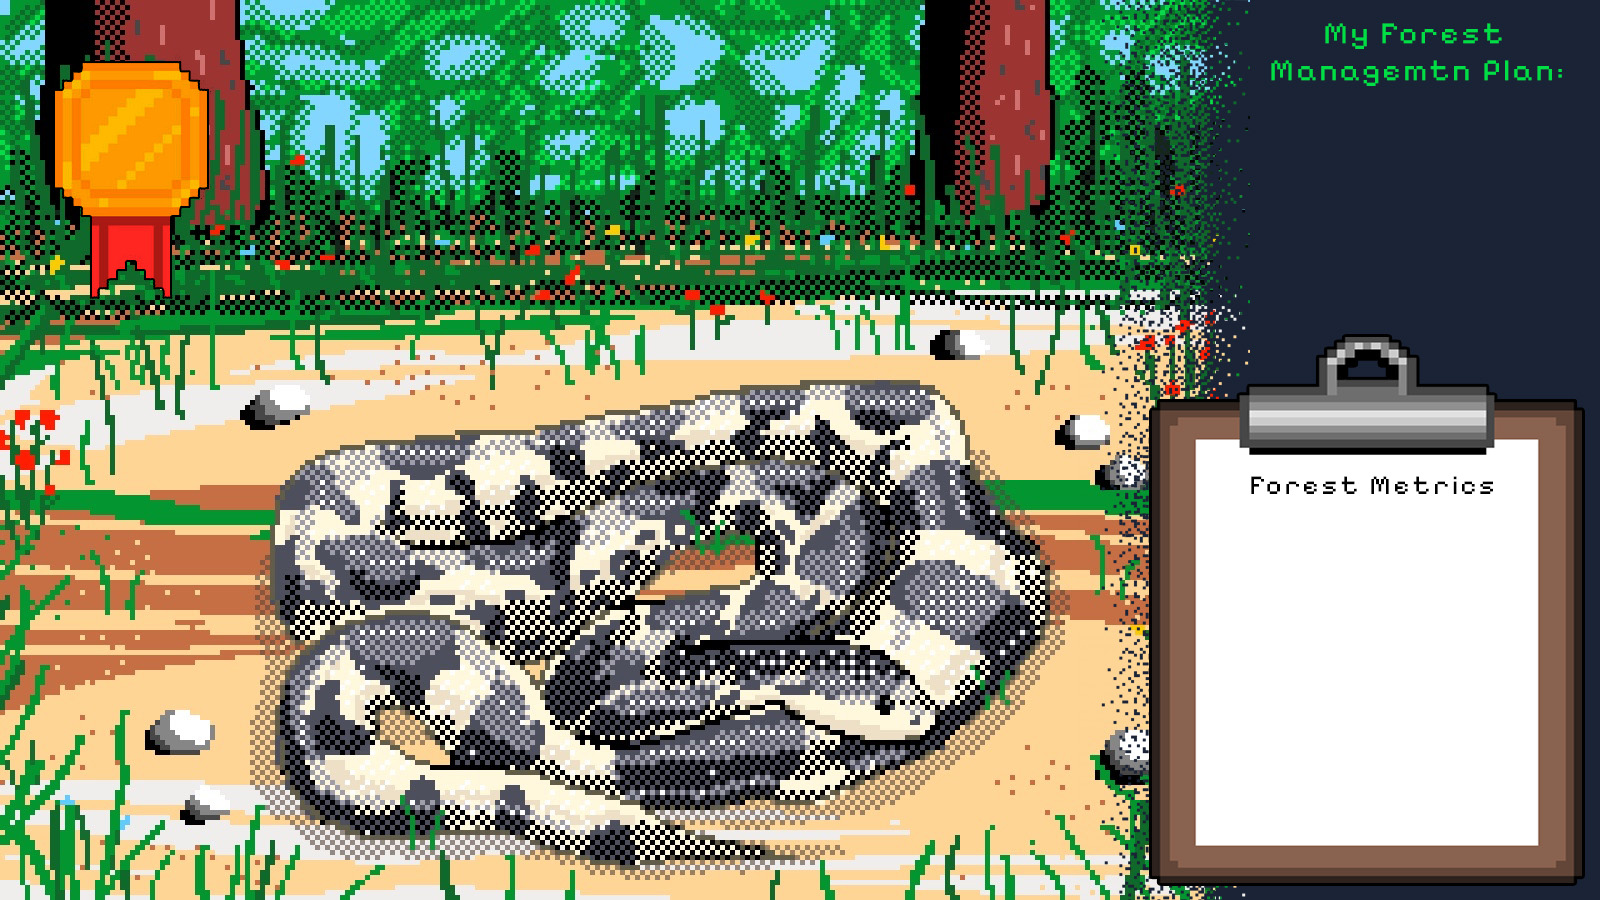
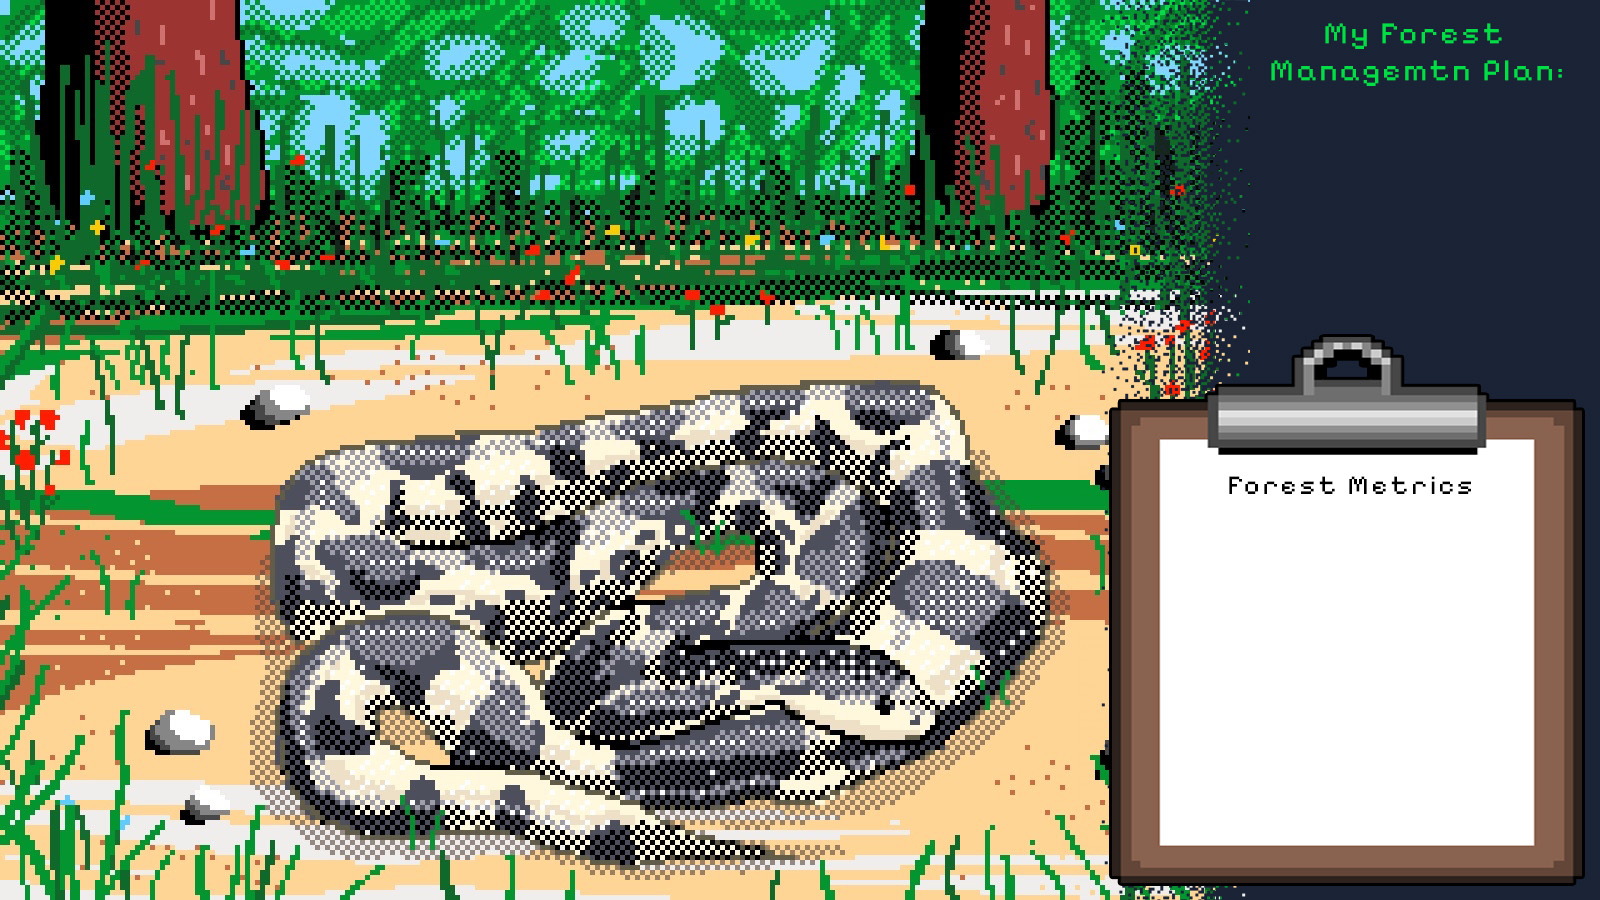
Updating canvas to labels
Converting canvas to label so text and buttons can be placed relatively rather than at absolute pixels

Changed region(s): [[0.6875, 0.3733, 0.9688, 0.9956], [0.0312, 0.0622, 0.1562, 0.3422], [0.9062, 0.4356, 0.9375, 0.4978]]

diff --git a/src/gui.py b/src/gui.py
@@ -48,7 +48,7 @@ def main():
         if risk == "Low":
             return "#228B22"  # Green
         elif risk == "Moderate":
-            return "#FFD700"  # Yellow
+            return "#FFA600"  # Yellow
         else:
             return "#B22222"  # Red
 
@@ -140,7 +140,7 @@ def main():
 
     # Create a frame for the buttons, centered near the bottom
     button_row = tk.Frame(intro_frame, bg="#854a2d")
-    button_row.place(relx=0.795, rely=0.825, anchor="center")  # Adjust rely for vertical position
+    button_row.place(relx=0.795, rely=0.825, anchor="center")  
 
     tk.Button(
         button_row,
@@ -361,69 +361,59 @@ def main():
         game_frame = tk.Frame(root, bg=BG_COLOR)
         game_frame.pack(fill="both", expand=True)
 
-        # Create a canvas that fills the window
-        canvas = tk.Canvas(game_frame, bg=BG_COLOR, highlightthickness=0)
-        canvas.pack(fill="both", expand=True)
+        # Load and display the background image in a label
+        bg_img = Image.open("assets/Evenagestand.png")
+        bg_img = bg_img.resize((1920, 1080))
+        bg_photo = ImageTk.PhotoImage(bg_img)
+        bg_label = tk.Label(game_frame, image=bg_photo)
+        bg_label.image = bg_photo
+        bg_label.place(relx=0, rely=0, relwidth=1, relheight=1)
 
-        # Load and display the background image, resizing it to fit the window
-        def update_bg_image(event=None):
-            try:
-                image = Image.open("assets/Evenagestand.png")
-                # Resize image to fit the canvas
-                w = canvas.winfo_width()
-                h = canvas.winfo_height()
-                if w < 10 or h < 10:
-                    return  # Avoid errors on initial small size
-                img = image.resize((w, h), Image.LANCZOS)
-                photo = ImageTk.PhotoImage(img)
-                canvas.photo = photo  # Prevent garbage collection
-                if hasattr(canvas, "bg_img_id"):
-                    canvas.itemconfig(canvas.bg_img_id, image=photo)
-                else:
-                    canvas.bg_img_id = canvas.create_image(0, 0, anchor="nw", image=photo)
-            except Exception:
-                pass
-
-        canvas.bind("<Configure>", update_bg_image)
-
-        # Overlay frame for stats and buttons
-        overlay = tk.Frame(canvas, bg="#FFFFFF", bd=0)  # White background
-        overlay_id = canvas.create_window(50, 185, anchor="nw", window=overlay)
-
-        # Status display area
-        status = tk.StringVar()
-        status.set("Welcome to Pitch Pine Trail! \nClick an action to begin.")
+        # --- Welcome Frame ---
+        welcome_frame = tk.Frame(game_frame, bg="#FFFFFF", bd=0)
+        welcome_frame.place(relx=0.88, rely=0.13, anchor="center")
 
         status_label = tk.Label(
-            overlay, textvariable=status, wraplength=400, justify="center",
-            padx=10, pady=10, bg="#FFFFFF", fg=FG_COLOR, font=FONT
+            welcome_frame,
+            text="Welcome to Pitch Pine Trail! \nClick an action to begin →",
+            wraplength=600, justify="center",
+            padx=10, pady=10, bg="#1b2336", fg="#05dd4c", font=FONT
         )
         status_label.pack()
 
+        # --- Metrics Frame ---
+        metrics_frame = tk.Frame(game_frame, bg="#FFFFFF", bd=0)
+        metrics_frame.place(relx=0.845, rely=0.73, anchor="center")
 
-        ba_label = tk.Label(overlay, bg="#FFFFFF", fg=FG_COLOR, font=FONT)
-        ba_label.pack()
-        qmd_label = tk.Label(overlay, bg="#FFFFFF", fg=FG_COLOR, font=FONT)
-        qmd_label.pack()
-        fire_risk_label = tk.Label(overlay, wraplength=400, justify="left", padx=10, pady=0, bg="#FFFFFF", font=FONT)
-        tpa_label = tk.Label(overlay, bg=BG_COLOR, fg=FG_COLOR, font=FONT)
-        tpa_label.pack()
+        # This label will be updated with game status
+        game_status = tk.StringVar()
+        game_status_message = tk.Message(
+            metrics_frame,
+            textvariable=game_status,
+            width=450,  # width in pixels, similar to wraplength
+            justify="center",
+            bg="#FFFFFF",
+            fg=FG_COLOR,
+            font=("Courier",13, "bold")
+        )
+        game_status_message.pack()
+
+        fire_risk_label = tk.Label(metrics_frame, wraplength=400, justify="left", padx=10, pady=0, bg="#FFFFFF", font=FONT)
         fire_risk_label.pack()
-        spb_risk_label = tk.Label(overlay, wraplength=400, justify="left", padx=10, pady=0, bg="#FFFFFF", font=FONT)
+        spb_risk_label = tk.Label(metrics_frame, wraplength=400, justify="left", padx=10, pady=0, bg="#FFFFFF", font=FONT)
         spb_risk_label.pack()
 
-        # Narration area
-        # Narration area
         narration = tk.StringVar()
         narration.set("What will you do next?")
         narration_label = tk.Label(
-            overlay, textvariable=narration, wraplength=400, justify="left",
+            metrics_frame, textvariable=narration, wraplength=400, justify="left",
             padx=10, pady=5, bg="#FFFFFF", fg=FG_COLOR, font=FONT
         )
         narration_label.pack()
 
-        button_frame = tk.Frame(overlay, bg="#FFFFFF")
-        button_frame.pack(pady=10)
+        # --- Button frame ---
+        button_frame = tk.Frame(game_frame, bg="#1b2336")
+        button_frame.place(relx=0.88, rely=0.26, anchor="center")
 
         ACTIONS = {
             '1': 'Do nothing',
@@ -434,20 +424,16 @@ def main():
 
         def update_status_labels():
             status_dict = game.get_status_dict()
-            status_label.config(
-                text=f"Year: {status_dict['year']} | Carbon: {status_dict['carbon']:.1f} MT/ac | CI: {status_dict['CI']:.1f}"
+            game_status.set(
+                f"Year: {status_dict['year']}\n"
+                f"\nBasal Area (BA): {status_dict['BA']:.1f} sqft/acre\n"
+                f"\nTrees Per Acre (TPA): {status_dict['TPA']}\n"
+                f"\nQuadratic Mean Diameter (QMD): {status_dict['QMD']:.1f} inches\n"
+                f"\nCarbon per Acre: {status_dict['carbon']:.1f} Metric Tons/acre\n"
+                f"\nCompetition Index: {status_dict['CI']:.1f}"
             )
-            # Only show BA, QMD, TPA at the start (year 0)
-            if status_dict['year'] == 0:
-                ba_label.config(text=f"Basal Area (BA): {status_dict['BA']:.1f} sqft/acre")
-                qmd_label.config(text=f"Quadratic Mean Diameter (QMD): {status_dict['QMD']:.1f} inches")
-                tpa_label.config(text=f"Trees Per Acre (TPA): {status_dict['TPA']}")
-            else:
-                ba_label.config(text="")
-                qmd_label.config(text="")
-                tpa_label.config(text="")
             fire_risk_label.config(
-                text=f"Fire Risk: {status_dict['fire_risk']}",
+                text=f"\n\n\nFire Risk: {status_dict['fire_risk']}",
                 fg=get_risk_color(status_dict['fire_risk'])
             )
             spb_risk_label.config(
@@ -460,10 +446,13 @@ def main():
             game.update_stand(action)
             event = game.simulate_event()
             game.stand['year'] += 10
-            status.set(game.get_status())
 
-            # Catastrophic wildfire ending
-            # Catastrophic wildfire ending
+            # Hide welcome message after first action
+            welcome_frame.place_forget()
+
+            # Update metrics/status
+            update_status_labels()
+
             if getattr(game.stand, 'catastrophic_wildfire', False) or game.stand.get('catastrophic_wildfire', False):
                 show_fire_loss_screen()
                 return
@@ -483,7 +472,6 @@ def main():
             if game.stand['year'] >= 100:
                 show_closing_screen()
                 return
-            update_status_labels()
 
         update_status_labels()
 
@@ -491,11 +479,12 @@ def main():
             tk.Button(
                 button_frame,
                 text=f"{k}. {v}",
-                width=22, font=FONT,
-                bg="#FFFFFF", fg=FG_COLOR,
-                activebackground="#DDDDDD",
+                width=22, font=("Courier", 14, "bold"),
+                bg="#404d6d",
+                fg="#05dd4c",
+                activebackground="#05dd4c",
                 command=lambda k=k: next_turn(k)
-            ).pack(pady=3)
+            ).pack(pady=5)
 
     def show_definitions_screen():
         """Display a screen with definitions for different terms."""
